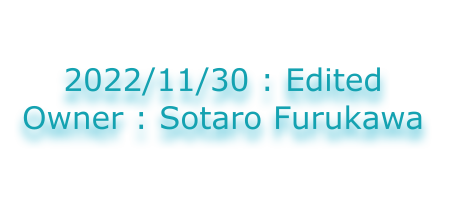
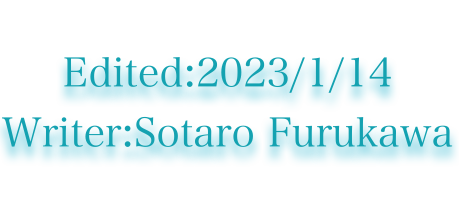
fix info

Changed region(s): [[0.0, 0.27, 1.0, 0.81]]

diff --git a/3rdQuarter/measure.html b/3rdQuarter/measure.html
@@ -6,15 +6,15 @@
 	<title>情報セキュリティ対策</title>
 	</head>
     <body>
-        <a href="../index.html"><img src="../info.svg"></a> 
+        <a href="../index.html"><img src="../inf.png"></a> 
         <p>2022/11/18&nbsp;1:02:30&nbsp;情報を更新しました</p>
-        <a href="https://sou31415.github.io/3rdQuarter/fundemental.html">情報セキュリティ基礎</a>
+        <a href="fundemental.html">情報セキュリティ基礎</a>
 		<br>
-		<a href="https://sou31415.github.io/3rdQuarter/manage.html">情報セキュリティ管理</a>
+		<a href="manage.html">情報セキュリティ管理</a>
         <br>
         <a href="https://sou31415.notion.site/8cba656e5cd448868aa071422f5a9324?v=c4c19929ccc14bb0a6ca3afa98640754">src of C</a>
         <br>
-        <a href="https://sou31415.github.io/formula/index.html">公式集</a>
+        <a href="../formula/index.html">公式集</a>
         <h3>1.利用者PCの内蔵ストレージが暗号化されていないとき、攻撃者が利用者PCから内蔵ストレージを抜き取り、攻撃者が用意したPCに接続して内蔵ストレージ内の情報を盗む攻撃の対策に該当するものはどれか。</h3>
         <font size="4">解答:利用者PC上でHDDパスワードを設定する</font>
         <h3>2.IPSの説明はどれか。</h3>
@@ -57,7 +57,7 @@
         <h3>12.マルウェアの動的解析に該当するものはどれか。</h3>
         <font size="4">解答:検体をサンドボックス上で実行し，その動作や外部との通信を観測する。</font>
         <h3>13.WAFにおけるフォールスポジティブに該当するものはどれか。</h3>
-        <font size="4">解答:HTMLの特殊文字"<"を検出したときに通信を遮断するようにWAFを設定した場合、"<"などの数式を含んだ正当なHTTPリクエストが送信されたとき、WAFが攻撃として検知し、遮断する。</font>
+        <font size="4">解答:HTMLの特殊文字を検出したときに通信を遮断するようにWAFを設定した場合、などの数式を含んだ正当なHTTPリクエストが送信されたとき、WAFが攻撃として検知し、遮断する。</font>
         <h3>14.ハニーポットの説明はどれか。</h3>
         <font size="4">解答:わざと侵入しやすいように設定した機器やシステムをインターネット上に配置することによって，攻撃手法やマルウェアの振る舞いなどの調査と研究に利用する。</font>
         <h3>15.Webサーバの検査におけるポートスキャナの利用目的はどれか。</h3>

diff --git a/index.html b/index.html
@@ -3,20 +3,21 @@
     <meta charset="utf-8">
     <link rel="icon" type="image/x-icon" href="favicon.ico">
 
-    <title>Manager's Profile</title>
+    <title>Profile</title>
 </head>
 <body>
 <center>
-    <a href="index.html"><img src="info.svg" weight="468" height="200"></a>
+    <a href="index.html"><img src="inf.png" weight="468" height="200"></a>
 <font size="4">
 <h4>開発言語:Python/Rust</h4>
 <h4>作成中:Rustを用いたLinuxコマンドの再構築,<br>Webアプリケーションの制作(Rust,Web Assembly,Actix Web)</h4>
 </font>
 <h4>作成ページ一覧</h4>
 <font size="4">
-    <a href="https://sou31415.github.io/3rdQuarter/fundemental.html">情報セキュリティ基礎問題</a><br>
-    <a href="https://sou31415.github.io/3rdQuarter/manage.html">情報セキュリティ管理問題</a><br>
-    <a href="https://sou31415.github.io/3rdQuarter/measure.html">情報セキュリティ対策問題</a><br>
+	<a href="cipher_cmd/index.html">AES暗号化・復号化ツール</a>
+	<a href="3rdQuarter/fundemental.html">情報セキュリティ基礎問題</a><br>
+    <a href="3rdQuarter/manage.html">情報セキュリティ管理問題</a><br>
+    <a href="3rdQuarter/measure.html">情報セキュリティ対策問題</a><br>
 	<a href="https://sou31415.github.io/">Rust,PythonのGitHubリポジトリ</a><br>
 </font>
 <p>現在Linux KernelではほとんどがC/C++で記述されているが、C言語はメモリ周りのセキュリティが甘く、ポインタ関連の脆弱性がバグのほとんどを占めている。そこで、Unixコマンドをメモリ効率がよく、脆弱性が少ないRustで記述、構築していくことでより安全なシステムの構築を目指す。また同時に、Rustを使ってOSを作ることも視野に入れている。Rustで記述することにより、今まで以上にメモリ効率がよく、脆弱性のないOSを開発していきたいと考える。</p>

diff --git a/3rdQuarter/manage.html b/3rdQuarter/manage.html
@@ -7,16 +7,16 @@
 	</head>
     <body>
         <center>
-            <a href="../index.html"><img src="../info.svg"></a>
+            <a href="../index.html"><img src="../inf.png"></a>
         </center>
         <p>2022/11/18&nbsp;1:02:30&nbsp;情報を更新しました</p>
-        <a href="https://sou31415.github.io/3rdQuarter/fundemental.html">情報セキュリティ基礎</a>
+        <a href="fundemental.html">情報セキュリティ基礎</a>
         <br>
-        <a href="https://sou31415.github.io/3rdQuarter/measure.html">情報セキュリティ対策</a>
+        <a href="measure.html">情報セキュリティ対策</a>
         <br>
         <a href="https://sou31415.notion.site/8cba656e5cd448868aa071422f5a9324?v=c4c19929ccc14bb0a6ca3afa98640754">src of C</a>
         <br>
-        <a href="https://sou31415.github.io/formula/index.html">公式集</a>
+        <a href="../formula/index.html">公式集</a>
         <h3>1.入出金管理システムから出力された入金データファイルを，売掛金管理システムが読み込んでマスタファイルを更新する。入出金管理システムから売掛金管理システムヘ受け渡されたデータの正確性及び網羅性を確保するコントロールはどれか。</h3>
         <font size="4">解答:入金額及び入金データ件数のコントロールトータルのチェック</font>
         <h3>2.参加組織及びそのグループ企業において検知されたサイバー攻撃などの情報を、IPAが情報ハブになって集約し、参加組織間で共有する取組はどれか。</h3>

diff --git a/3rdQuarter/fundemental.html b/3rdQuarter/fundemental.html
@@ -7,16 +7,16 @@
 	</head>
 	<body>
 		<center>
-			<a href="../index.html"><img src="../info.svg"></a>
+			<a href="../index.html"><img src="../inf.png"></a>
 		</center>
 		<p>2022/11/18&nbsp;1:02:30&nbsp;情報を更新しました</p>
-		<a href="https://sou31415.github.io/3rdQuarter/manage.html">情報セキュリティ管理</a>
+		<a href="manage.html">情報セキュリティ管理</a>
 		<br>
-		<a href="https://sou31415.github.io/3rdQuarter/measure.html">情報セキュリティ対策</a>
+		<a href="measure.html">情報セキュリティ対策</a>
 		<br>
 		<a href="https://sou31415.notion.site/8cba656e5cd448868aa071422f5a9324?v=c4c19929ccc14bb0a6ca3afa98640754">src of C</a>
 		<br>
-		<a href="https://sou31415.github.io/formula/index.html">公式集</a>
+		<a href="../formula/index.html">公式集</a>
 		<h3>1.PCへの侵入に成功したマルウェアがインターネット上の指令サーバと通信を行う場合に、宛先ポートとして使用されるTCPポート番号80に関する記述のうち、適切なものはどれか。</h3>
 		<font size="4">解答:Webサイトの閲覧に使用されることから、通信がファイアウォールで許可されている可能性が高い。</font>
 		<h3>2.Webサイトで利用されるCAPTCHAに該当するものはどれか。</h3>

diff --git a/cipher_browser/index.html b/cipher_browser/index.html
@@ -1,8 +1,9 @@
 <!DOCTYPE html>
-<html><meta charset="utf-8"><body>
+<html><meta charset="utf-8">
+	<title>AES decrypt:encrypt</title>
+	<body>
 <script type="module">
-  // WebAssemblyを読み込む --- (*1)
-  import init, {encrypt, decrypt} from './pkg/cipher_browser.js';
+	import init, {encrypt, decrypt} from './pkg/cipher_browser.js';
   init().then(() => {
     window.encrypt = encrypt;
     window.decrypt = decrypt;
@@ -23,13 +24,11 @@
   const q = (query) => {
     return document.querySelector(query); 
   };
-  // 暗号化ボタンを押した時 --- (*2)
   function enc_click() {
     console.log(q("#inbox"));
     q("#outbox").value = window.encrypt(
       q("#password").value, q("#inbox").value);
   }
-  // 復号化ボタンを押した時 --- (*3)
   function dec_click() {
     q("#outbox").value = window.decrypt(
       q("#password").value, q("#inbox").value);

diff --git a/3rdQuarter/index.html b/3rdQuarter/index.html
@@ -11,8 +11,10 @@
     <center>
 <font size="4">
     <a href="fundemental.html">情報セキュリティ基礎</a>
+	<br>
     <a href="manage.html">情報セキュリティ管理</a>
-    <a href="measure.html">情報セキュリティ対策</a>
+	<br>
+	<a href="measure.html">情報セキュリティ対策</a>
 </font>
 </center>
 </body>
